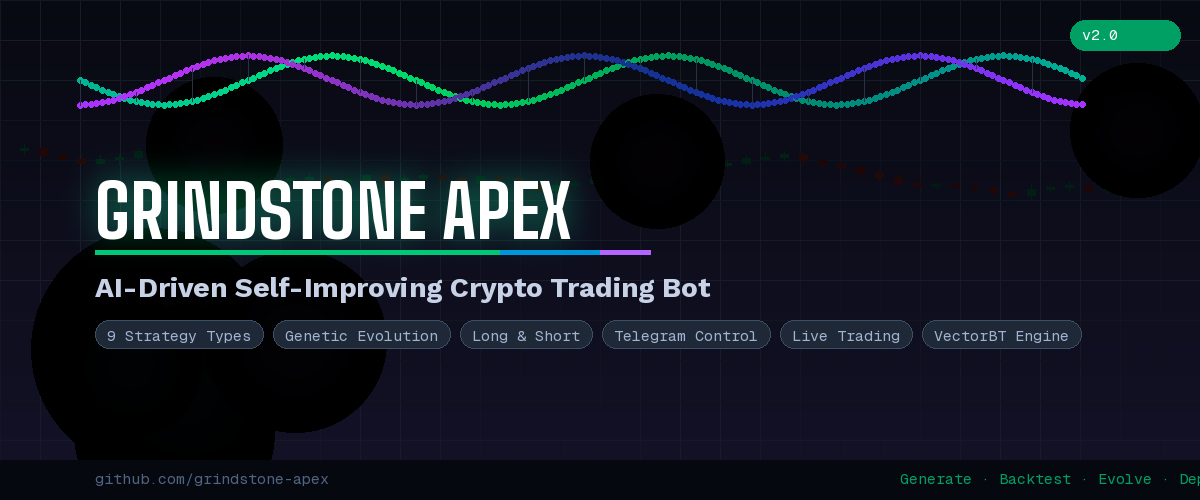
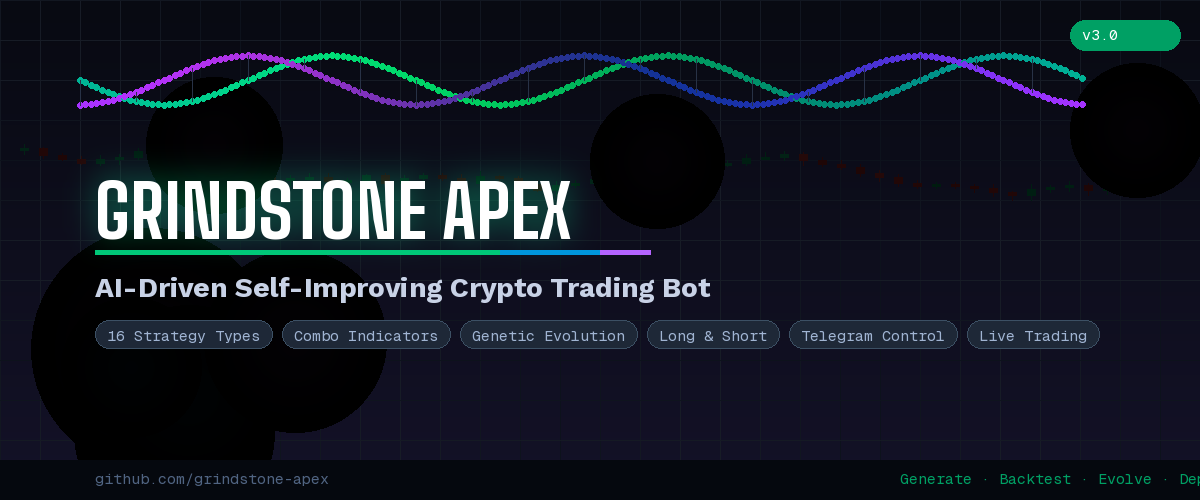
Update graphics for 16 strategies, fix TUI crash and Blofin timeframe
- Updated banner and architecture diagram to show 16 strategy types,
  combo indicators, and v3.0
- Updated README Key Features to list all 16 strategies and combo system
- Fixed TUI crash: use push_screen instead of switch_screen on mount
  to avoid IndexError on empty callback stack (Textual + Python 3.14)
- Fixed Blofin "Parameter bar error": map 60m→1H, 240m→4H etc.
  Blofin API rejects minute-format for hourly+ timeframes

Changed region(s): [[0.4008, 0.63, 0.925, 0.72], [0.0925, 0.63, 0.37, 0.72]]

diff --git a/src/tui/app.py b/src/tui/app.py
@@ -392,19 +392,30 @@ class GrindstoneApp:
                 self.install_screen(DashboardScreen(), name="dashboard")
                 self.install_screen(MonitoringScreen(), name="monitoring")
                 self.install_screen(SettingsScreen(), name="settings")
-                self.switch_screen("dashboard")
+                # Use push_screen instead of switch_screen on mount
+                # switch_screen pops the default screen which has no callbacks yet
+                self.push_screen("dashboard")
 
             def action_show_dashboard(self) -> None:
                 """Show dashboard."""
-                self.switch_screen("dashboard")
+                try:
+                    self.switch_screen("dashboard")
+                except (IndexError, Exception):
+                    self.push_screen("dashboard")
 
             def action_show_monitoring(self) -> None:
                 """Show monitoring."""
-                self.switch_screen("monitoring")
+                try:
+                    self.switch_screen("monitoring")
+                except (IndexError, Exception):
+                    self.push_screen("monitoring")
 
             def action_show_settings(self) -> None:
                 """Show settings."""
-                self.switch_screen("settings")
+                try:
+                    self.switch_screen("settings")
+                except (IndexError, Exception):
+                    self.push_screen("settings")
 
         self.app = GroundstoneTextApp()
 

diff --git a/src/backtesting/data_loader.py b/src/backtesting/data_loader.py
@@ -134,7 +134,11 @@ class HistoricalDataLoader:
         """Fetch data from CCXT exchange."""
         try:
             # Convert timeframe to CCXT format
-            timeframe_str = f"{timeframe}m"
+            # Blofin uses 1H/4H not 60m/240m
+            tf_map = {1: "1m", 5: "5m", 15: "15m", 30: "30m",
+                       60: "1H", 120: "2H", 240: "4H", 360: "6H",
+                       720: "12H", 1440: "1D"}
+            timeframe_str = tf_map.get(timeframe, f"{timeframe}m")
 
             all_candles = []
             end_date = datetime.utcnow()

diff --git a/README.md b/README.md
@@ -30,7 +30,9 @@ You control everything from your phone via a **Telegram bot**.
 
 ## Key Features
 
-**9 Strategy Types** — SMA crossover, EMA crossover, Donchian breakout, volume breakout, RSI mean reversion, Bollinger bounce, MACD, opening range breakout, and liquidity sweeps.
+**16 Strategy Types** — SMA, EMA, MACD, RSI, Bollinger, Stochastic, ADX, Ichimoku Cloud, Aroon, Accumulation/Distribution, Fibonacci Retracement, Donchian Breakout, Volume Breakout, Opening Range Breakout, Liquidity Sweep, and the powerful Combo system.
+
+**Combo Indicator System** — The genetic algorithm can stack 2-3 indicators together (e.g., RSI + MACD + Bollinger) and require ALL to agree within a 3-bar window before signaling. Dramatically reduces false entries.
 
 **Long & Short** — Every strategy can trade both directions. The genetic algorithm evolves the optimal direction for each market condition.
 
